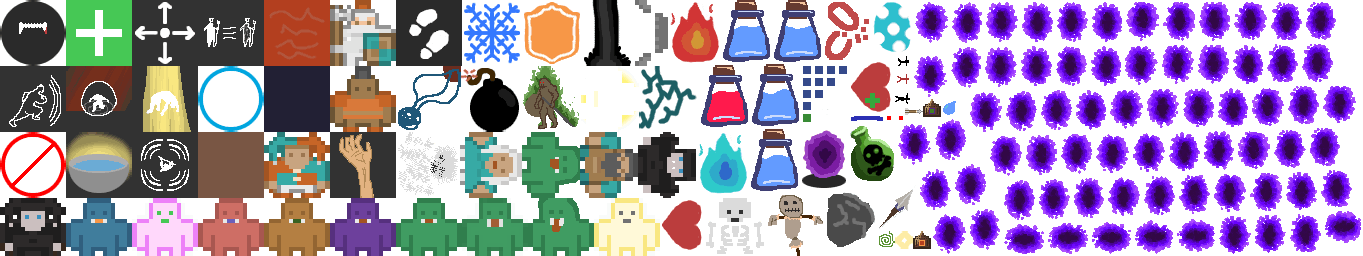
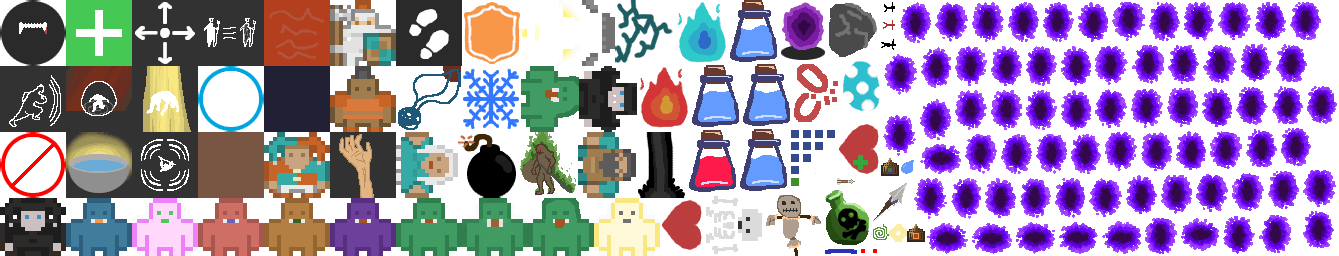
src: Remove idea of bone dust
Destroy corpses was just frusterating for players who
are trying to tie together a big cool spell that uses the corpses

diff --git a/src/Unit.ts b/src/Unit.ts
@@ -343,11 +343,6 @@ export async function takeDamage(unit: IUnit, amount: number) {
     // if unit is alive, die
     if (unit.alive) {
       die(unit);
-    } else {
-      // leave behind bone dust
-      Image.create(unit.x, unit.y, "units/bone_dust.png", containerDoodads);
-      // unit is already dead, fully destroy:
-      cleanup(unit);
     }
   }
 

diff --git a/docs/TasksCurrent.md b/docs/TasksCurrent.md
@@ -14,7 +14,6 @@
 - maybe portal appears when final enemy is killed
 - some levels are hard cause there's no one to steal mana from
 - mana gain per turn should be in your mana bar
-- improve bone dust image
 - archers shouldn't have mana
 - explain vampires (and all units) when you first encounter them
 - don't make "your turn" floating text ordered, it gets clogged up
@@ -46,7 +45,6 @@
 ### 2022-04-01 Brad/Jake playtest
 - Jake: Either line of sight for preset range for spells.
 - In spell projection, if you're doing enough damage to kill, show it visually
-    - also show if it will "dust" someone
 - Songs should all be same volume
 - Continuing in the direction you clicked to move (automove)
 - Desyncs:
